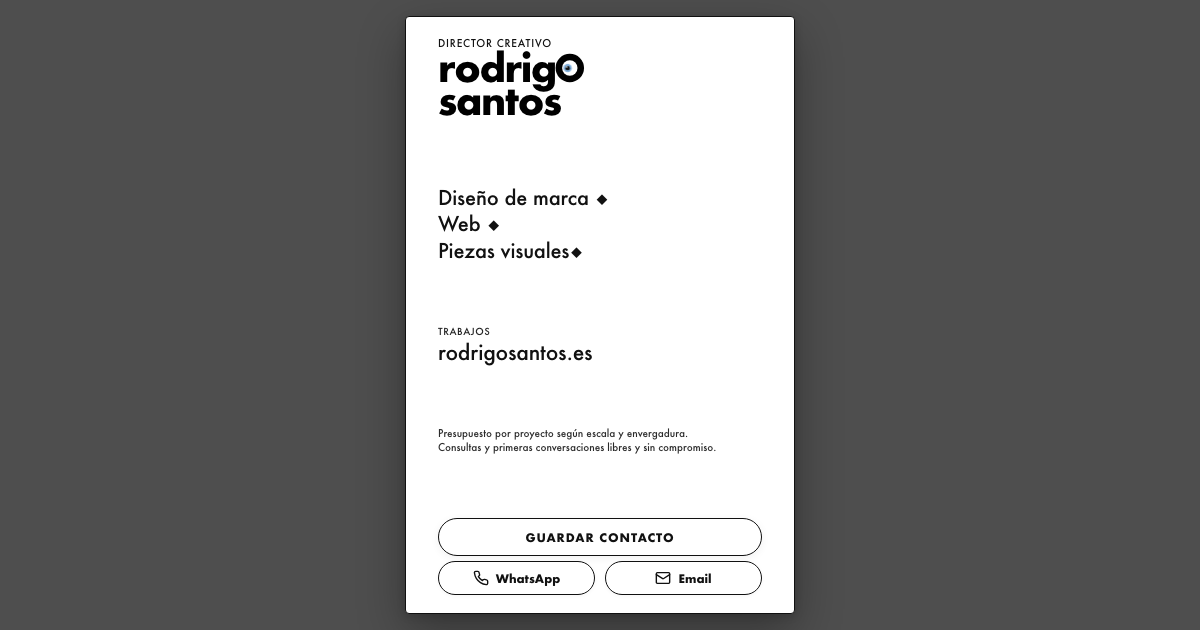
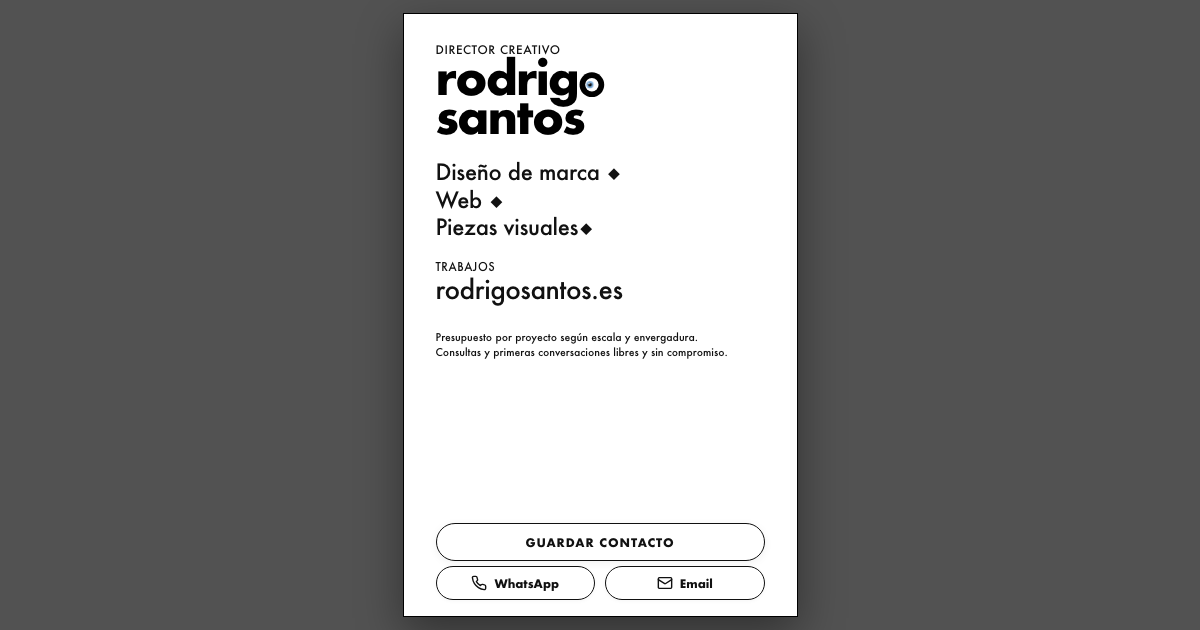
style(vcard): strictly match typography sizes and vertical distances from artboard

diff --git a/src/components/VirtualCard/VirtualCard.css b/src/components/VirtualCard/VirtualCard.css
@@ -1,11 +1,14 @@
 /* =======================================================
    Virtual Business Card — Rodrigo Santos (/hola & /hello)
-   New Graphic Design:
-   - Charcoal artboard canvas (#4E4E4E)
-   - Crisp white card (#FFFFFF) with solid black border
-   - Animated calm eye inside the 'o' of 'rodrigo'
-   - Clean lightweight typography with trailing diamonds
-   - Action buttons in white at the bottom
+   Strict Artboard Fidelity:
+   - Canvas: Neutral dark gray (#525252)
+   - Artboard: Crisp white rectangle (#FFFFFF) with 1px black border
+   - Top generous whitespace before 'DIRECTOR CREATIVO'
+   - Heavy display 'rodrigo santos' with animated calm eye
+   - Large lightweight services (24-28px) with diamond
+   - Large lightweight 'rodrigosantos.es' (28-34px)
+   - Clean proportional vertical spacing throughout
+   - White capsule action buttons at bottom
    ======================================================= */
 
 .vcard-page {
@@ -17,22 +20,22 @@
   display: flex;
   justify-content: center;
   align-items: center;
-  /* Dark neutral artboard gray canvas matching the mockup */
-  background-color: #4E4E4E;
+  /* Dark gray artboard background matching the user's mockup */
+  background-color: #525252;
   color: #111111;
   font-family: var(--font-body, 'Futura', 'Futura-Medium', 'Jost', sans-serif);
   -webkit-font-smoothing: antialiased;
   -moz-osx-font-smoothing: grayscale;
-  padding: clamp(10px, 2.5vh, 24px) clamp(12px, 3.5vw, 24px);
+  padding: clamp(10px, 2vh, 24px) clamp(10px, 3vw, 20px);
   box-sizing: border-box;
 }
 
 /* White Artboard Card */
 .vcard-container {
   width: 100%;
-  max-width: 390px;
+  max-width: 395px;
   height: 100%;
-  max-height: min(720px, calc(100dvh - clamp(20px, 3.5vh, 36px)));
+  max-height: min(710px, calc(100dvh - clamp(16px, 3vh, 32px)));
   overflow-y: auto;
   overflow-x: hidden;
   scrollbar-width: none;
@@ -40,11 +43,12 @@
   display: flex;
   flex-direction: column;
   justify-content: space-between;
-  padding: clamp(20px, 3.2vh, 32px) clamp(22px, 5.8vw, 32px) clamp(18px, 2.8vh, 26px);
+  /* Top generous whitespace matching the artboard mockup */
+  padding: clamp(30px, 4.8vh, 46px) clamp(22px, 6vw, 32px) clamp(16px, 2.5vh, 24px);
   background-color: #FFFFFF;
-  border: 1.5px solid #111111;
-  border-radius: 4px;
-  box-shadow: 0 18px 48px rgba(0, 0, 0, 0.32), 0 2px 8px rgba(0, 0, 0, 0.16);
+  border: 1px solid #000000;
+  border-radius: 0;
+  box-shadow: 0 16px 42px rgba(0, 0, 0, 0.40);
   box-sizing: border-box;
 }
 
@@ -58,17 +62,18 @@
   display: flex;
   flex-direction: column;
   align-items: flex-start;
-  margin-bottom: clamp(6px, 1.2vh, 12px);
+  margin-bottom: clamp(20px, 3.6vh, 32px);
 }
 
 .vcard-badge {
-  font-family: var(--font-display, 'Futura', 'Futura-Medium', 'Jost', sans-serif);
-  font-size: clamp(10px, 1.35vh, 12.5px);
-  font-weight: 500;
-  letter-spacing: 0.08em;
+  font-family: var(--font-body, 'Futura', 'Futura-Medium', 'Jost', sans-serif);
+  font-size: clamp(11.5px, 1.5vh, 13px);
+  font-weight: 400;
+  letter-spacing: 0.05em;
   text-transform: uppercase;
   color: #111111;
-  margin: 0 0 clamp(2px, 0.4vh, 4px) 0;
+  margin: 0 0 3px 0;
+  line-height: 1;
 }
 
 .vcard-title {
@@ -76,9 +81,9 @@
   display: flex;
   flex-direction: column;
   font-family: var(--font-display, 'Futura', 'Futura-Bold', 'Jost', sans-serif);
-  font-size: clamp(38px, 5.4vh, 52px);
+  font-size: clamp(46px, 6.8vh, 60px);
   font-weight: 800;
-  line-height: 0.85;
+  line-height: 0.84;
   letter-spacing: -0.04em;
   text-transform: lowercase;
   color: #000000;
@@ -91,7 +96,7 @@
 
 .vcard-name-line--rodrigo {
   display: inline-flex;
-  align-items: center;
+  align-items: baseline;
   position: relative;
 }
 
@@ -100,12 +105,12 @@
   display: inline-flex;
   align-items: center;
   justify-content: center;
-  width: 0.78em;
-  height: 0.78em;
-  margin-left: -0.02em;
+  width: 0.56em;
+  height: 0.56em;
+  margin-left: 0.02em;
   position: relative;
-  vertical-align: middle;
-  transform: translateY(-0.02em);
+  vertical-align: baseline;
+  transform: translateY(0.04em);
 }
 
 .vcard-eye-svg {
@@ -115,7 +120,7 @@
   overflow: visible;
 }
 
-/* Calm, lifelike, relaxed drifting motion for the pupil */
+/* Calm, relaxed, smooth side-to-side eye drift */
 @keyframes calmEyeDrift {
   0% {
     transform: translate(-7.5px, 0);
@@ -151,21 +156,21 @@
   flex-shrink: 0;
   display: flex;
   flex-direction: column;
-  gap: clamp(1px, 0.3vh, 3px);
-  margin-top: clamp(6px, 1.2vh, 14px);
+  gap: 0;
+  margin-bottom: clamp(18px, 3.4vh, 30px);
 }
 
 .vcard-service-item {
   margin: 0;
   font-family: var(--font-body, 'Futura', 'Futura-Medium', 'Jost', sans-serif);
-  font-size: clamp(20px, 2.7vh, 25px);
+  font-size: clamp(22px, 3.2vh, 27px);
   font-weight: 350;
-  line-height: 1.24;
-  letter-spacing: -0.01em;
+  line-height: 1.25;
+  letter-spacing: -0.015em;
   color: #111111;
   display: flex;
   align-items: baseline;
-  gap: 8px;
+  gap: 6px;
 }
 
 /* ---------- Work / Trabajos Block ---------- */
@@ -174,26 +179,28 @@
   display: flex;
   flex-direction: column;
   align-items: flex-start;
-  margin-top: clamp(8px, 1.5vh, 16px);
+  margin-bottom: clamp(24px, 4.2vh, 38px);
 }
 
 .vcard-work-label {
-  font-family: var(--font-display, 'Futura', 'Futura-Medium', 'Jost', sans-serif);
-  font-size: clamp(9.5px, 1.3vh, 11.5px);
-  font-weight: 500;
-  letter-spacing: 0.06em;
+  font-family: var(--font-body, 'Futura', 'Futura-Medium', 'Jost', sans-serif);
+  font-size: clamp(11px, 1.45vh, 12.5px);
+  font-weight: 400;
+  letter-spacing: 0.05em;
   text-transform: uppercase;
-  color: #222222;
-  margin-bottom: 1px;
+  color: #111111;
+  margin-bottom: 2px;
+  line-height: 1;
 }
 
 .vcard-work-domain {
   font-family: var(--font-body, 'Futura', 'Futura-Medium', 'Jost', sans-serif);
-  font-size: clamp(21px, 2.9vh, 26px);
+  font-size: clamp(26px, 3.8vh, 33px);
   font-weight: 350;
-  letter-spacing: -0.01em;
+  letter-spacing: -0.02em;
   color: #111111;
   text-decoration: none;
+  line-height: 1.1;
   transition: opacity 0.2s ease, transform 0.2s ease;
   display: inline-block;
 }
@@ -206,16 +213,17 @@
 /* ---------- Budget Block ---------- */
 .vcard-budget-block {
   flex-shrink: 0;
-  margin-top: clamp(8px, 1.4vh, 16px);
+  margin-bottom: clamp(12px, 2vh, 18px);
 }
 
 .vcard-budget-text {
   margin: 0;
   display: flex;
   flex-direction: column;
-  font-size: clamp(10px, 1.25vh, 11.8px);
-  line-height: 1.36;
-  color: #2b2b2b;
+  font-family: var(--font-body, 'Futura', 'Futura-Medium', 'Jost', sans-serif);
+  font-size: clamp(10.5px, 1.35vh, 11.8px);
+  line-height: 1.38;
+  color: #111111;
   font-weight: 400;
 }
 
@@ -225,7 +233,7 @@
   display: flex;
   flex-direction: column;
   gap: clamp(5px, 0.8vh, 8px);
-  margin-top: clamp(10px, 1.8vh, 18px);
+  margin-top: auto;
 }
 
 .vcard-action-btn {
@@ -253,7 +261,7 @@
 .vcard-action-btn--primary {
   width: 100%;
   height: clamp(38px, 4.8vh, 44px);
-  font-size: clamp(11.5px, 1.45vh, 13px);
+  font-size: clamp(11.5px, 1.45vh, 12.8px);
   font-weight: 700;
   letter-spacing: 0.08em;
   text-transform: uppercase;
@@ -277,7 +285,7 @@
 
 .vcard-action-btn--secondary {
   height: clamp(34px, 4.2vh, 39px);
-  font-size: clamp(11.5px, 1.45vh, 13px);
+  font-size: clamp(11.5px, 1.45vh, 12.8px);
   font-weight: 600;
   gap: 7px;
   box-shadow: 0 1px 4px rgba(0, 0, 0, 0.04);
